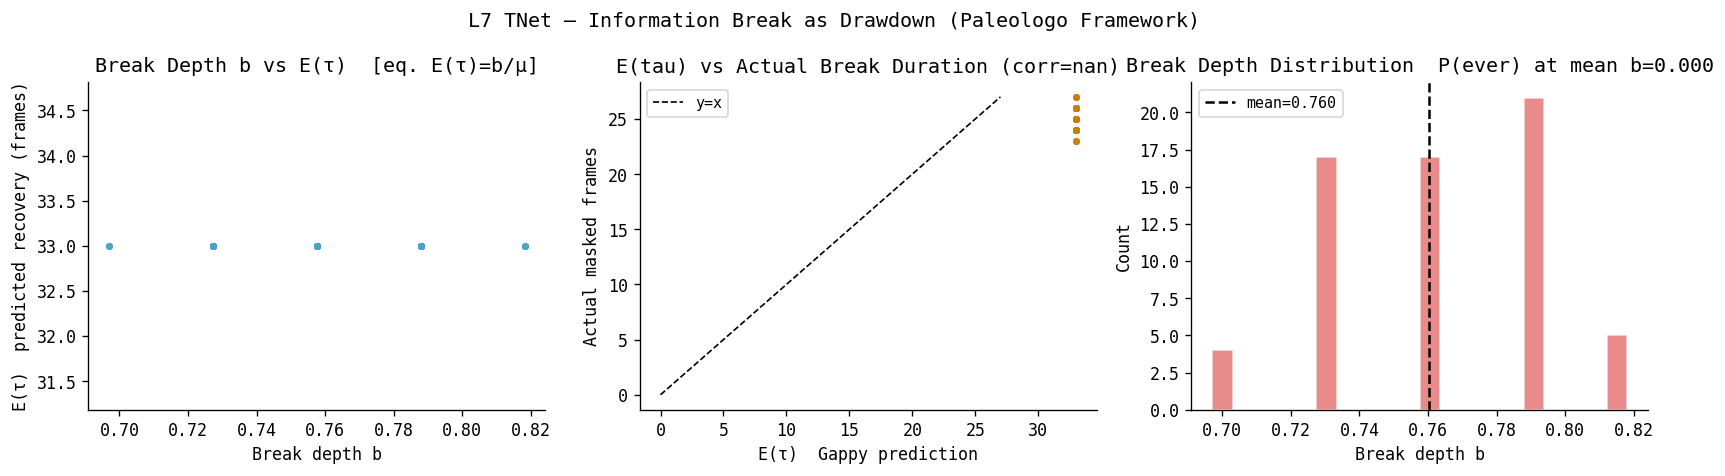
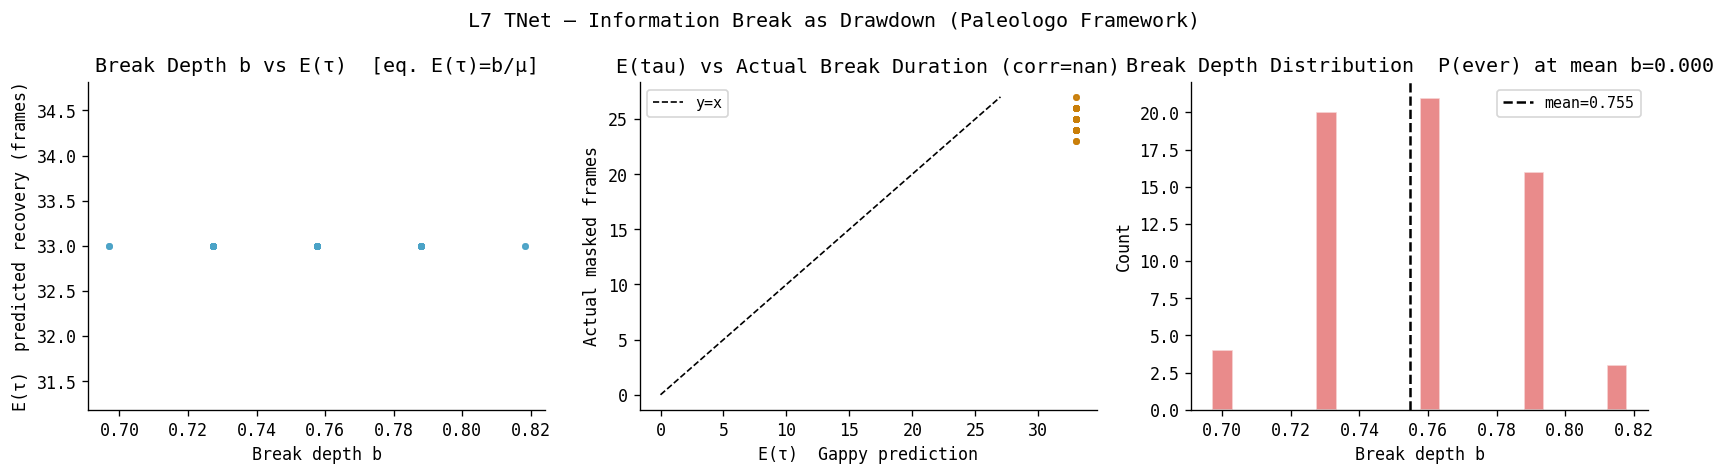
L9 reproducibility: Dockerfile, pinned requirements, deterministic seeds
- requirements.txt: exact versions for numpy/scipy/torch/matplotlib/pytest
- Dockerfile: python:3.11-slim, installs from requirements.txt, runs pytest
- CI updated: installs from requirements.txt, PYTHONHASHSEED=42, adds docker
  build+test job gated on build passing
- Drawdown notebook: np.random.seed(42) + torch.manual_seed(42) so all
  random draws reproduce exactly across runs and environments

Clone → docker build → docker run = identical results. No surprises.

https://claude.ai/code/session_01A23R6AFZfu4Nk2pxfWr1n4

Changed region(s): [[0.7067, 0.1765, 0.9525, 0.3529], [0.9217, 0.7059, 0.9525, 0.7647]]

diff --git a/notebooks/gen_drawdown_analysis.py b/notebooks/gen_drawdown_analysis.py
@@ -40,6 +40,10 @@ from scipy.stats import norm
 import matplotlib.pyplot as plt
 import matplotlib.gridspec as gridspec
 
+# Deterministic seed — all random draws reproducible across runs
+SEED = 42
+np.random.seed(SEED)
+
 plt.rcParams.update({
     'figure.dpi': 120,
     'axes.spines.top': False,
@@ -371,6 +375,9 @@ md([
 code("""
 import torch
 import torch.nn.functional as F
+
+torch.manual_seed(SEED)
+np.random.seed(SEED)
 
 # Re-use DecaySTFTGenerator from L7 notebook
 class DecaySTFTGenerator:
